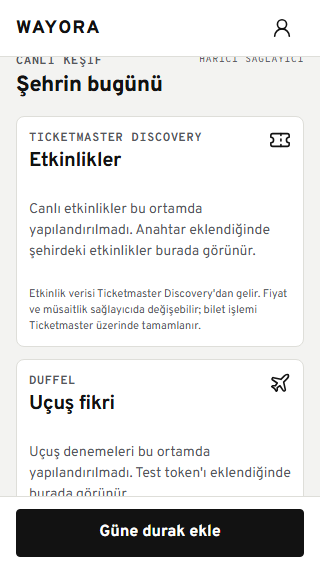
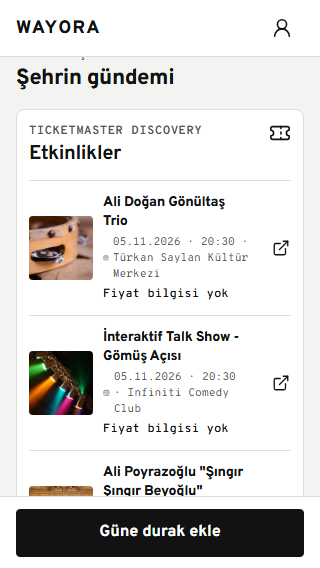
fix: normalize Ticketmaster event time and optional venue

diff --git a/api/src/services/ticketmaster.ts b/api/src/services/ticketmaster.ts
@@ -15,7 +15,7 @@ const eventSchema = z
         z
           .object({
             ratio: z.string().optional(),
-            url: z.string(),
+            url: z.string().optional(),
             width: z.number().optional(),
           })
           .passthrough(),
@@ -51,7 +51,7 @@ const eventSchema = z
           .array(
             z
               .object({
-                name: z.string(),
+                name: z.string().optional(),
                 city: z.object({ name: z.string() }).passthrough().optional(),
               })
               .passthrough(),
@@ -85,13 +85,17 @@ export type EventOffer = {
 }
 
 function pickImage(
-  images: Array<{ ratio?: string; url: string; width?: number }> | undefined,
+  images: Array<{ ratio?: string; url?: string; width?: number }> | undefined,
 ): string | null {
   if (!images || images.length === 0) return null
-  const wide = images
+  const usable = images.filter((image): image is { ratio?: string; url: string; width?: number } =>
+    Boolean(image.url),
+  )
+  if (usable.length === 0) return null
+  const wide = usable
     .filter((image) => image.ratio === '16_9')
     .sort((a, b) => (b.width ?? 0) - (a.width ?? 0))
-  return wide[0]?.url ?? images[0]?.url ?? null
+  return wide[0]?.url ?? usable[0]?.url ?? null
 }
 
 function normalizeEvent(event: z.infer<typeof eventSchema>): EventOffer {
@@ -103,10 +107,9 @@ function normalizeEvent(event: z.infer<typeof eventSchema>): EventOffer {
     url: event.url ?? null,
     imageUrl: pickImage(event.images),
     startDate: event.dates?.start?.localDate ?? event.dates?.start?.dateTime ?? null,
-    startTime: event.dates?.start?.localTime ?? null,
+    startTime: event.dates?.start?.localTime?.slice(0, 5) ?? null,
     venue: venue?.name ?? null,
-    city: venue?.city?.name ?? null,
-    priceMin: price?.min ?? null,
+    city: venue?.city?.name ?? null,    priceMin: price?.min ?? null,
     priceMax: price?.max ?? null,
     currency: price?.currency ?? null,
     status: event.dates?.status?.code ?? null,

diff --git a/web/src/components/LiveDiscovery.tsx b/web/src/components/LiveDiscovery.tsx
@@ -14,7 +14,8 @@ type LiveDiscoveryProps = {
 function eventDate(event: EventOffer): string {
   if (!event.startDate) return 'Tarih belirtilmedi'
   const date = event.startDate.includes('T') ? event.startDate.slice(0, 10) : event.startDate
-  return `${formatShortDate(date)}${event.startTime ? ` · ${event.startTime}` : ''}`
+  const time = event.startTime?.slice(0, 5)
+  return `${formatShortDate(date)}${time ? ` · ${time}` : ''}`
 }
 
 function eventPrice(event: EventOffer): string {
